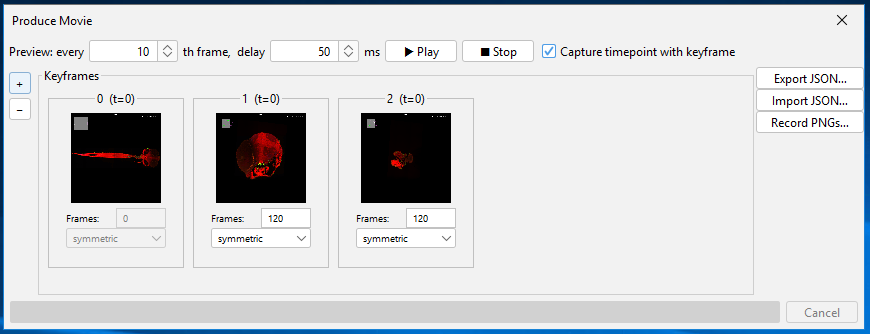
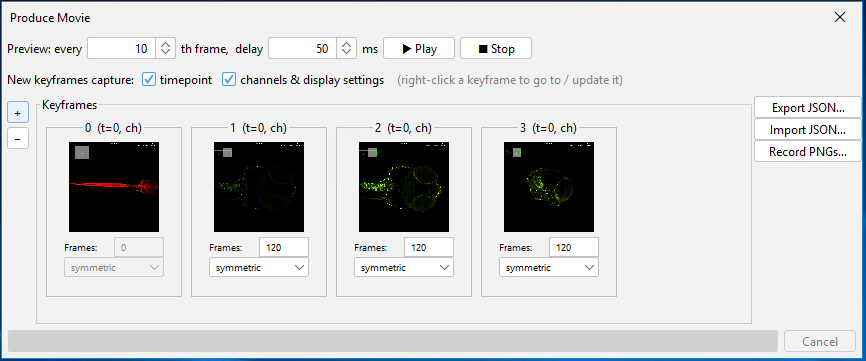
Update README screenshots for channel/display keyframes
Claude-Session: https://claude.ai/code/session_01Uua8YxzhwuKKLePTjyDXEc

diff --git a/README.md b/README.md
@@ -25,11 +25,13 @@ one small jar alongside it.
 
 *The movie producer in BDV's Tools menu (shortcut F7).*
 
-![The Produce Movie dialog with three keyframes](docs/images/produce-movie-dialog.png)
+![The Produce Movie dialog with four keyframes](docs/images/produce-movie-dialog.png)
 
-*The Produce Movie dialog: preview controls on top, the keyframe strip with
+*The Produce Movie dialog: preview controls and what new keyframes capture
+(timepoint, channels & display settings) on top, the keyframe strip with
 per-transition frame count and easing, and export / import / record on the
-right.*
+right. "(t=0, ch)" in a keyframe's title means it stores a timepoint and
+channel/display settings; right-click a keyframe to go to or update it.*
 
 ### Changes vs. the original fork
 
